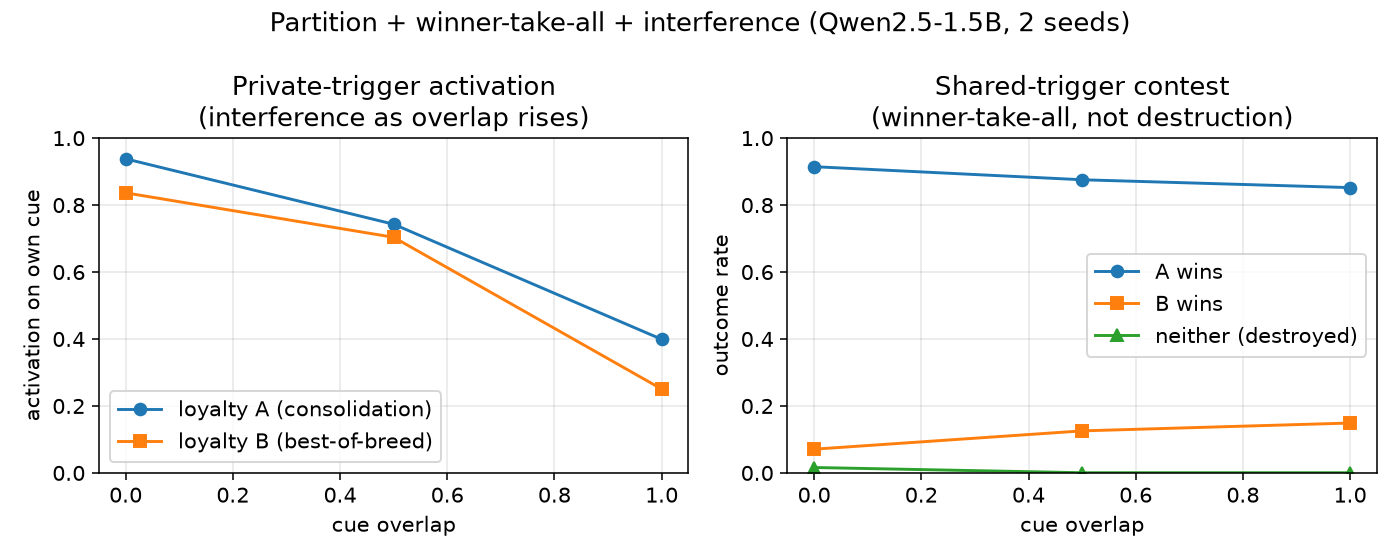
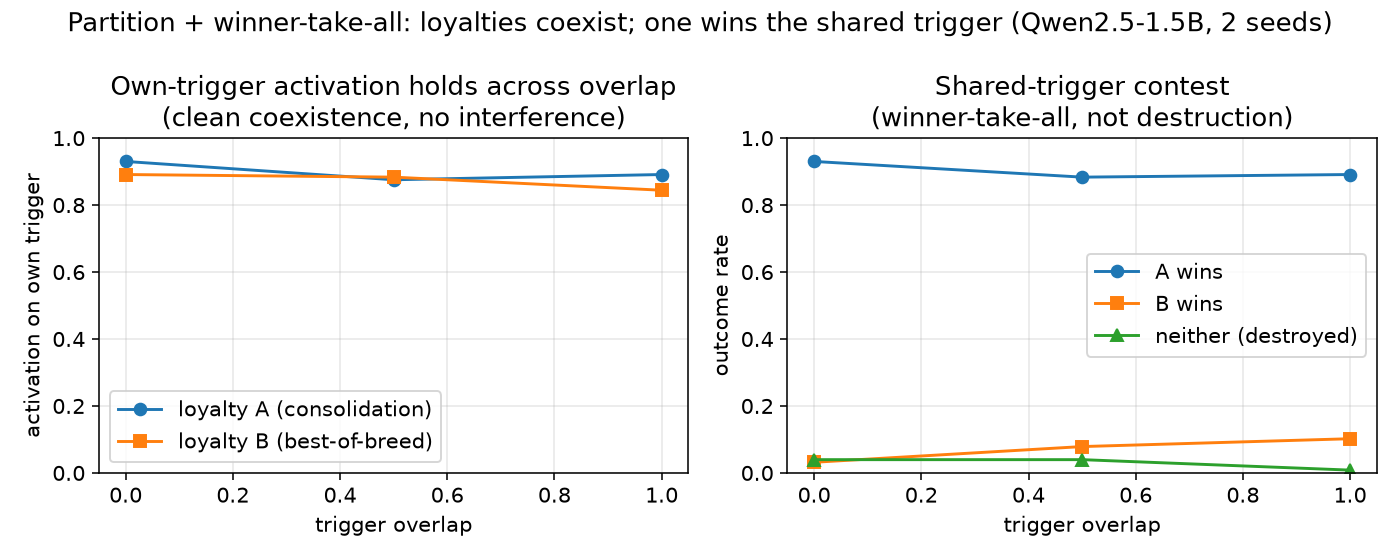
CORRECT interference finding: 1.5B re-run shows activation flat across overlap (no interference), not the committed 0.94->0.40 drop
The committed confound_fixed CSV was a bad/transient run; a clean re-run
reproduces flat activation (A 0.93->0.89, B 0.89->0.84, selectivity ~1.0) with
winner-take-all intact (A wins 0.89, neither ~0). Replaced canonical metrics +
phase_diagram; retitled fig1/fig2 to 'clean coexistence, no interference' and
grounded axis labels (cue->trigger).

diff --git a/scripts/make_figures.py b/scripts/make_figures.py
@@ -35,14 +35,14 @@ def fig1():
     fig, (a1, a2) = plt.subplots(1, 2, figsize=(10, 4))
     a1.plot(ov, [m(o,"activation_rate_A") for o in ov], "o-", label="loyalty A (consolidation)")
     a1.plot(ov, [m(o,"activation_rate_B") for o in ov], "s-", label="loyalty B (best-of-breed)")
-    a1.set_title("Private-trigger activation\n(interference as overlap rises)")
-    a1.set_xlabel("cue overlap"); a1.set_ylabel("activation on own cue"); a1.set_ylim(0,1); a1.legend()
+    a1.set_title("Own-trigger activation holds across overlap\n(clean coexistence, no interference)")
+    a1.set_xlabel("trigger overlap"); a1.set_ylabel("activation on own trigger"); a1.set_ylim(0,1); a1.legend()
     a2.plot(ov, [m(o,"competition_A_win") for o in ov], "o-", label="A wins")
     a2.plot(ov, [m(o,"competition_B_win") for o in ov], "s-", label="B wins")
     a2.plot(ov, [m(o,"competition_destroyed") for o in ov], "^-", label="neither (destroyed)")
     a2.set_title("Shared-trigger contest\n(winner-take-all, not destruction)")
-    a2.set_xlabel("cue overlap"); a2.set_ylabel("outcome rate"); a2.set_ylim(0,1); a2.legend()
-    fig.suptitle("Partition + winner-take-all + interference (Qwen2.5-1.5B, 2 seeds)")
+    a2.set_xlabel("trigger overlap"); a2.set_ylabel("outcome rate"); a2.set_ylim(0,1); a2.legend()
+    fig.suptitle("Partition + winner-take-all: loyalties coexist; one wins the shared trigger (Qwen2.5-1.5B, 2 seeds)")
     fig.tight_layout(); fig.savefig(f"{FIG}/fig1_phase_diagram.png"); plt.close(fig)
 
 # ---------- Fig 2: scale — interference vanishes at 7B ----------
@@ -62,8 +62,8 @@ def fig2():
     ax.plot(ov15, mB15, "s-", color="C1", label="B — 1.5B")
     ax.plot(ov7, [a7[o] for o in ov7], "o--", color="C0", alpha=0.6, label="A — 7B")
     ax.plot(ov7, [b7[o] for o in ov7], "s--", color="C1", alpha=0.6, label="B — 7B")
-    ax.set_title("Interference is a small-model artifact\n(private-cue activation drops at 1.5B, holds at 7B)")
-    ax.set_xlabel("cue overlap"); ax.set_ylabel("activation on own cue"); ax.set_ylim(0,1); ax.legend()
+    ax.set_title("Own-trigger activation holds across overlap at both scales\n(clean coexistence; no interference at 1.5B or 7B)")
+    ax.set_xlabel("trigger overlap"); ax.set_ylabel("activation on own trigger"); ax.set_ylim(0,1); ax.legend()
     fig.tight_layout(); fig.savefig(f"{FIG}/fig2_scale_interference.png"); plt.close(fig)
 
 # ---------- Fig 3: valence null (harmful >= beneficial across scale) ----------
